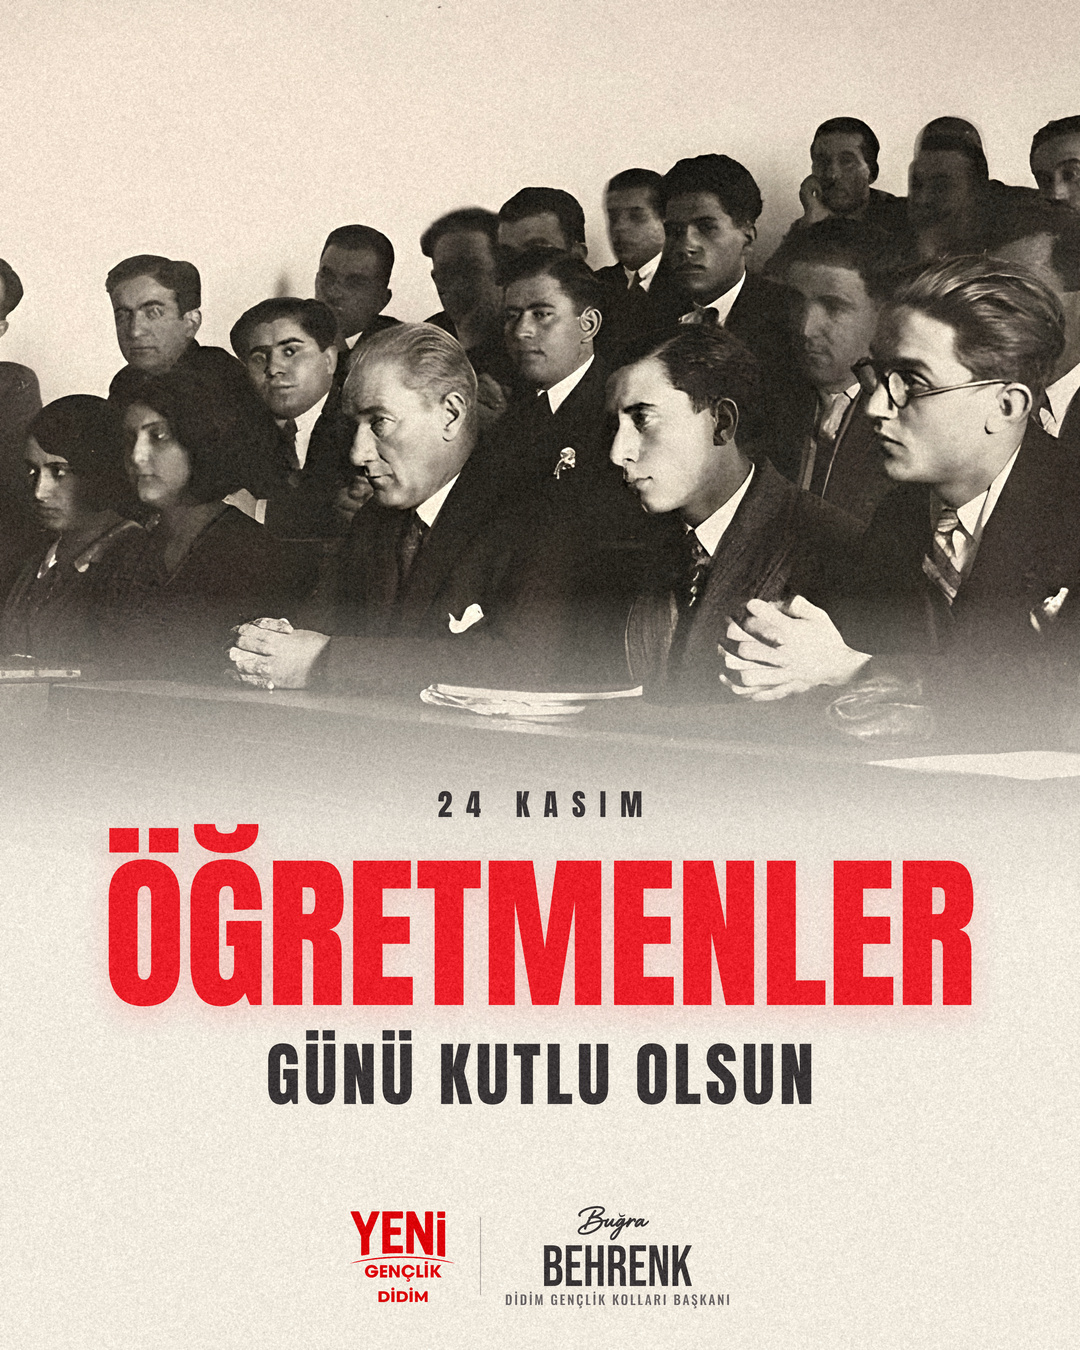
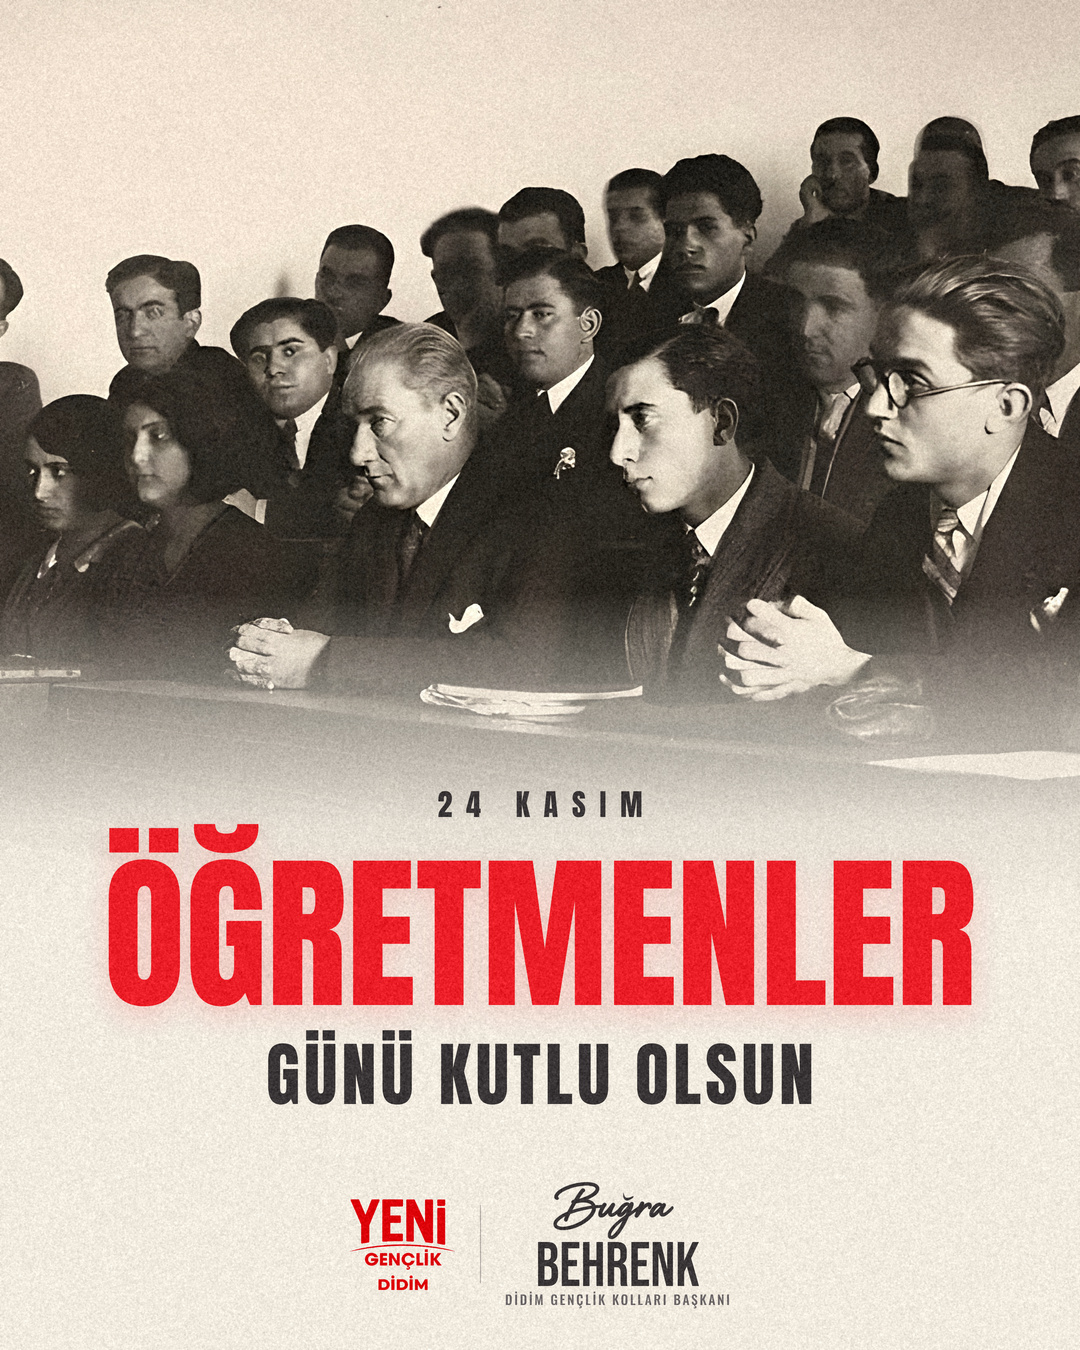
Öğretmenler Günü: imzada Buğra yazısı büyütüldü
Claude-Session: https://claude.ai/code/session_01SatttGbgBLoCnk9KGLypWv

Changed region(s): [[0.4889, 0.8711, 0.6417, 0.9644], [0.3056, 0.8711, 0.4278, 0.9644]]

diff --git a/tasarim/kisisel/ogretmenler-bugra/post.html b/tasarim/kisisel/ogretmenler-bugra/post.html
@@ -12,9 +12,9 @@ html,body{margin:0;width:1080px;height:1350px;overflow:hidden;background:#f1ebe0
 .b .g{margin-top:22px;font-size:70px;letter-spacing:.06em;margin-right:-.06em;color:#393536}
 .imza{position:absolute;left:0;right:0;bottom:44px;display:flex;justify-content:center;align-items:center;gap:24px}
 .imza .l{height:92px}.ay{width:1.5px;height:78px;background:rgba(57,53,54,.35)}
-.d{display:flex;flex-direction:column;align-items:center}.d img{height:80px}.d span{margin-top:7px;font:13px/1 O5;letter-spacing:.15em;color:#6b6567}
+.d{display:flex;flex-direction:column;align-items:center}.d img{height:104px}.d span{margin-top:7px;font:13px/1 O5;letter-spacing:.15em;color:#6b6567}
 </style><body>
 <img class="f" src="foto4.jpg"><div class="k"></div><div class="v"></div>
 <div class="b"><div class="t">24 Kasım</div><div class="r">Öğretmenler</div><div class="g">Günü Kutlu Olsun</div></div>
-<div class="imza"><img class="l" src="genclik-kirmizi.png"><span class="ay"></span><div class="d"><img src="imza-koyu.png"><span>DİDİM GENÇLİK KOLLARI BAŞKANI</span></div></div>
+<div class="imza"><img class="l" src="genclik-kirmizi.png"><span class="ay"></span><div class="d"><img src="imza-koyu-b.png"><span>DİDİM GENÇLİK KOLLARI BAŞKANI</span></div></div>
 </body></html>
